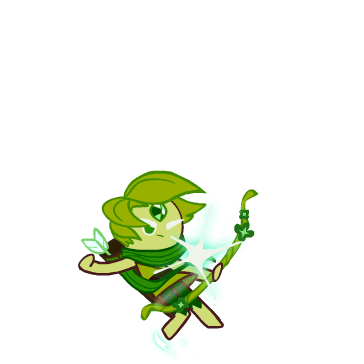
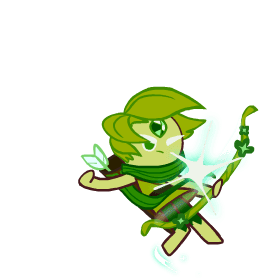
se monstro encostar no arqueiro ele morre e cai

Changed region(s): [[0.2, 0.2857, 0.9429, 0.9714]]

diff --git a/lib/components/Archer.dart b/lib/components/Archer.dart
@@ -44,24 +44,49 @@ class Archer {
   void render(Canvas canvas) {
     //canvas.drawRect(archerRect.inflate(deltaInflate), Paint()..color = Color(0x77ffffff));
     //canvas.drawRect(archerRect, Paint()..color = Color(0x88000000));
-    if(!moving) {
-      shootingSprite.renderRect(canvas, archerRect.inflate(deltaInflate));
+    if(!isDead) {
+      if (!moving) {
+        shootingSprite.renderRect(canvas, archerRect.inflate(deltaInflate));
+      } else {
+        movingSprite[spriteIndex.toInt()].renderRect(canvas, archerRect.inflate(deltaInflate));
+      }
     } else {
-      movingSprite[spriteIndex.toInt()].renderRect(canvas, archerRect.inflate(deltaInflate));
+      deadSprite[spriteIndex.toInt()].renderRect(canvas, archerRect.inflate(deltaInflate));
     }
   }
 
   void update(double time) {
-    if(moving) {
-      spriteIndex += 15 * time;
-      spriteIndex = spriteIndex % movingSprite.length;
+    if(!isDead) {
+      if (moving) {
+        spriteIndex += 15 * time;
+        spriteIndex = spriteIndex % movingSprite.length;
+      } else {
+        spriteIndex = 0;
+      }
     } else {
-      spriteIndex = 0;
+      if(spriteIndex.toInt() >= 3) { //começa a cair
+        double stepDistance = game.tileSize * time;
+        Offset targetLocation = Offset(archerRect.left + deltaInflate, game.screenSize.height);
+        Offset toTarget = targetLocation - Offset(archerRect.left + deltaInflate, archerRect.bottom + deltaInflate);
+        if (stepDistance < toTarget.distance) {
+          Offset stepToTarget = Offset.fromDirection(toTarget.direction, stepDistance);
+          archerRect = archerRect.shift(stepToTarget);
+        } else {
+          if(spriteIndex < deadSprite.length - 1) {
+            spriteIndex += 8 * time;
+            spriteIndex = spriteIndex % deadSprite.length;
+          }
+          archerRect = archerRect.shift(toTarget);
+        }
+      } else {
+        spriteIndex += 8 * time;
+        spriteIndex = spriteIndex % deadSprite.length;
+      }
     }
   }
 
   void startMove() {
-    moving = true;
+    if (!isDead) moving = true;
   }
 
   void onMove(Offset delta){
@@ -80,6 +105,13 @@ class Archer {
 
   void stopMove(){
     moving = false;
+  }
+
+  void die() {
+    if(!isDead) {
+      spriteIndex = 0;
+      isDead = true;
+    }
   }
 
 }

diff --git a/lib/GameLoop.dart b/lib/GameLoop.dart
@@ -50,7 +50,7 @@ class GameLoop extends Game {
 
   void resize(Size size) {
     screenSize = size;
-    tileSize = screenSize.width / 9;
+    tileSize = screenSize.height / 5;
   }
 
 
@@ -59,6 +59,9 @@ class GameLoop extends Game {
 
     monsters.forEach((monster) {
       monster.update(time);
+      if(monster.monsterRect.overlaps(archer.archerRect) && !monster.isDead) {
+        archer.die();
+      }
     });
     monsters.removeWhere((monster) {
       return monster.gone;
@@ -114,7 +117,7 @@ class GameLoop extends Game {
   }
 
   void shoot(TapUpDetails details){
-    if(!archer.moving) {
+    if(!archer.moving && !archer.isDead) {
       double x = archer.archerRect.left - archer.deltaInflate;
       double y = archer.archerRect.top - archer.deltaInflate;
       arrows.add(Arrow(this, x, y));
